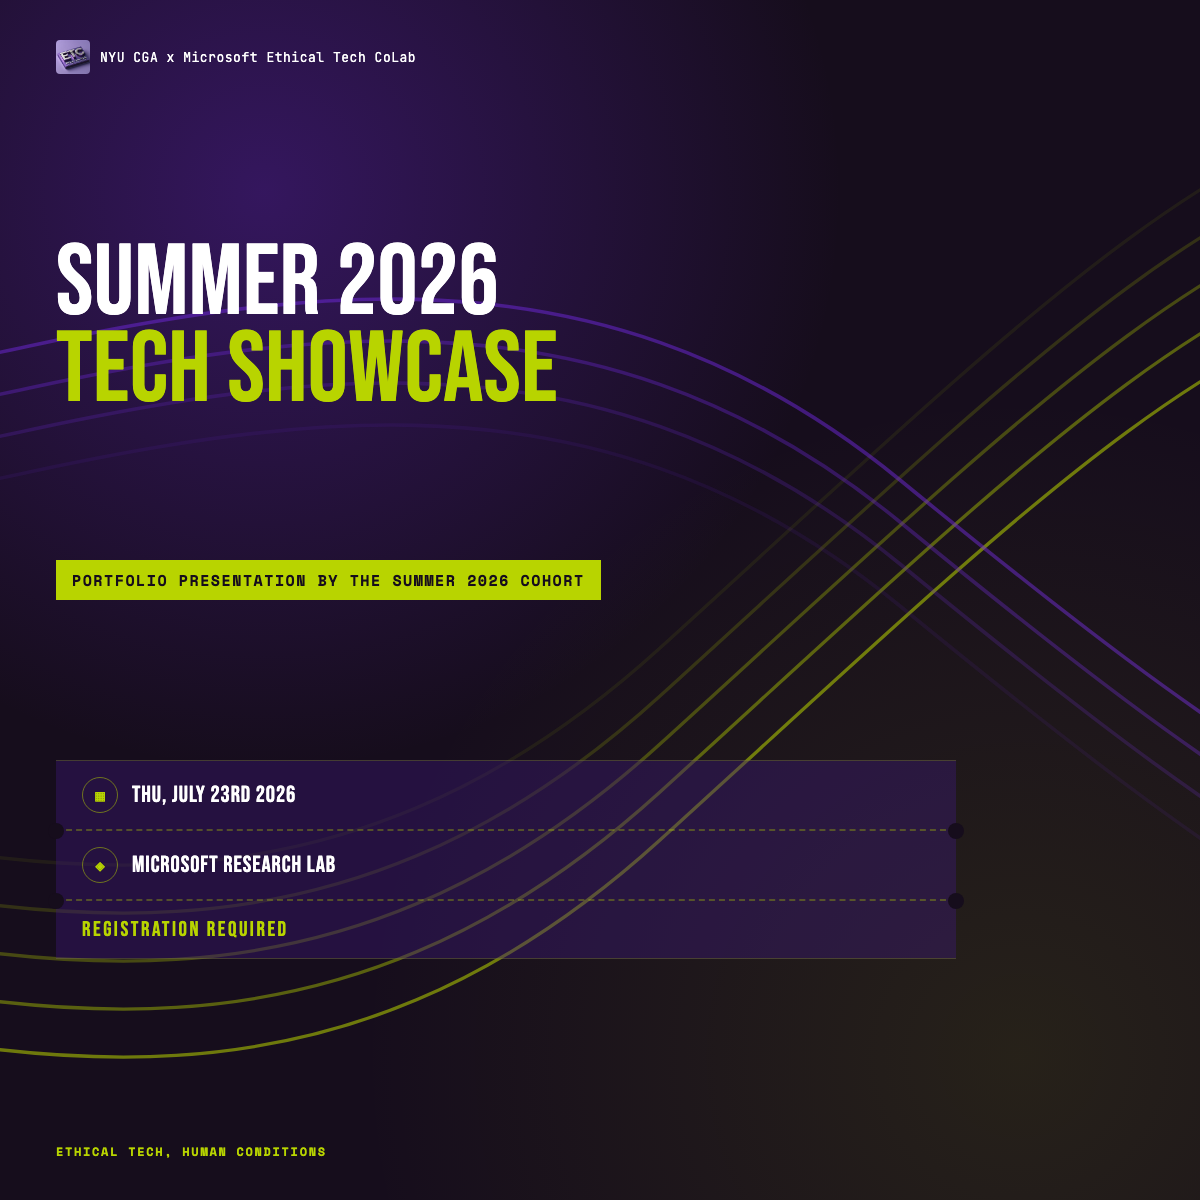
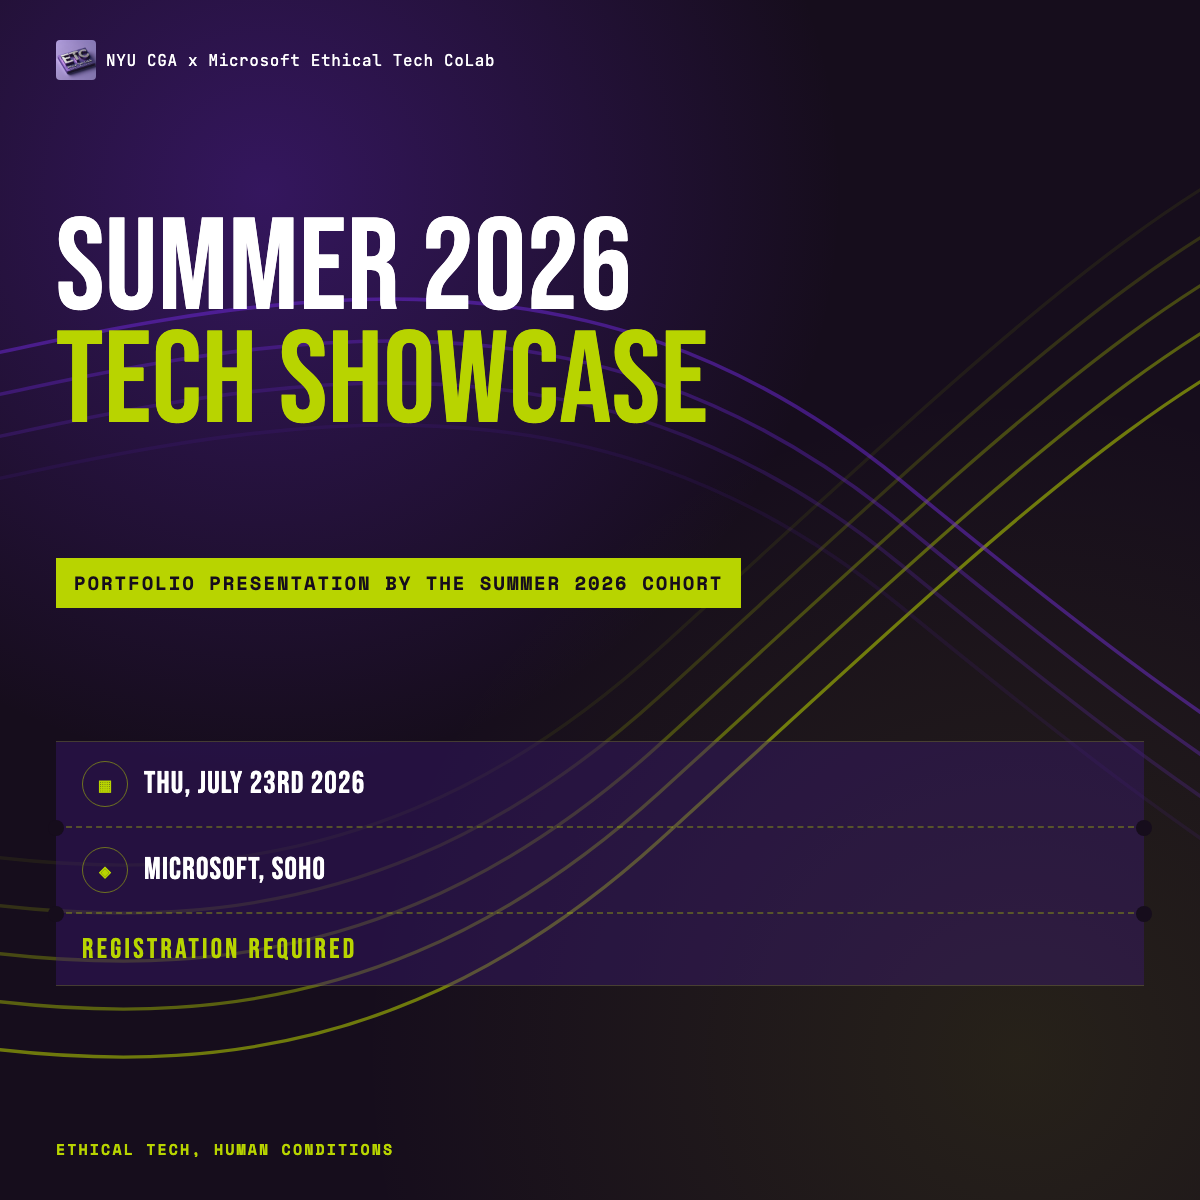
Increase Partiful text sizes and update LinkedIn location to Microsoft, SoHo
Regenerate both PNG exports to match the updated HTML.

diff --git a/Partiful-Graphics.html b/Partiful-Graphics.html
@@ -80,7 +80,7 @@ html,body{
 }
 .headline{
   font-family:'Bebas Neue Local',sans-serif;
-  font-size:100px;
+  font-size:130px;
   line-height:0.87;letter-spacing:0.005em;
 }
 .headline .accent{color:var(--lime);}
@@ -88,10 +88,10 @@ html,body{
   display:inline-block;
   background:var(--lime);color:var(--bg3);
   font-family:'Space Mono Local',monospace;font-weight:700;
-  font-size:15px;
+  font-size:19px;
   letter-spacing:0.1em;text-transform:uppercase;
-  padding:9px 16px;
-  max-width:560px;
+  padding:11px 18px;
+  max-width:700px;
 }
 
 /* ── TICKET STUB (vertical stack) ── */
@@ -103,11 +103,11 @@ html,body{
   border-bottom:1px solid var(--hair);
   margin-top:16px;
   width:100%;
-  max-width:900px;
+  max-width:1088px;
 }
 .stub-seg{
-  display:flex;align-items:center;gap:14px;
-  padding:16px 26px;
+  display:flex;align-items:center;gap:16px;
+  padding:19px 26px;
   position:relative;
 }
 .stub-seg + .stub-seg{border-top:2px dashed rgba(184,212,0,0.32);}
@@ -119,19 +119,19 @@ html,body{
 .stub-seg + .stub-seg::before{left:-8px;}
 .stub-seg + .stub-seg::after{right:-8px;}
 .stub-icon{
-  width:36px;height:36px;flex-shrink:0;
+  width:46px;height:46px;flex-shrink:0;
   border:1px solid rgba(184,212,0,0.5);border-radius:50%;
   display:flex;align-items:center;justify-content:center;
-  font-size:16px;color:var(--lime);
+  font-size:20px;color:var(--lime);
 }
 .stub-main{
   font-family:'Bebas Neue Local',sans-serif;
-  font-size:23px;letter-spacing:0.04em;color:var(--white);
+  font-size:31px;letter-spacing:0.04em;color:var(--white);
   line-height:1.1;white-space:nowrap;
 }
 .stub-admit{gap:0;}
 .admit-badge{
-  font-family:'Bebas Neue Local',sans-serif;font-size:21px;
+  font-family:'Bebas Neue Local',sans-serif;font-size:28px;
   color:var(--lime);letter-spacing:0.12em;white-space:nowrap;
 }
 
@@ -140,14 +140,14 @@ html,body{
   position:absolute;top:40px;left:56px;z-index:4;
   display:flex;align-items:center;gap:10px;
 }
-.corner-brand img{height:34px;width:auto;border-radius:4px;display:block;}
+.corner-brand img{height:40px;width:auto;border-radius:4px;display:block;}
 .corner-brand span{
-  font-family:'JetBrains Mono Local',monospace;font-size:13px;
+  font-family:'JetBrains Mono Local',monospace;font-size:16px;
   letter-spacing:0.04em;color:var(--white);white-space:nowrap;
 }
 .corner-tag{
   position:absolute;bottom:40px;left:56px;z-index:4;
-  font-family:'Space Mono Local',monospace;font-weight:700;font-size:12px;
+  font-family:'Space Mono Local',monospace;font-weight:700;font-size:15px;
   letter-spacing:0.14em;text-transform:uppercase;color:var(--lime);
 }
 </style>
@@ -189,7 +189,7 @@ html,body{
       </div>
       <div class="stub-seg">
         <div class="stub-icon">&#9672;</div>
-        <div class="stub-main">MICROSOFT RESEARCH LAB</div>
+        <div class="stub-main">MICROSOFT, SOHO</div>
       </div>
       <div class="stub-seg stub-admit">
         <div class="admit-badge">REGISTRATION REQUIRED</div>

diff --git a/LinkedIn-Graphics.html b/LinkedIn-Graphics.html
@@ -215,7 +215,7 @@ html,body{
       <div class="stub-seg">
         <div class="stub-icon">&#9672;</div>
         <div>
-          <div class="stub-main">MICROSOFT RESEARCH LAB</div>
+          <div class="stub-main">MICROSOFT, SOHO</div>
         </div>
       </div>
       <div class="stub-seg stub-admit">